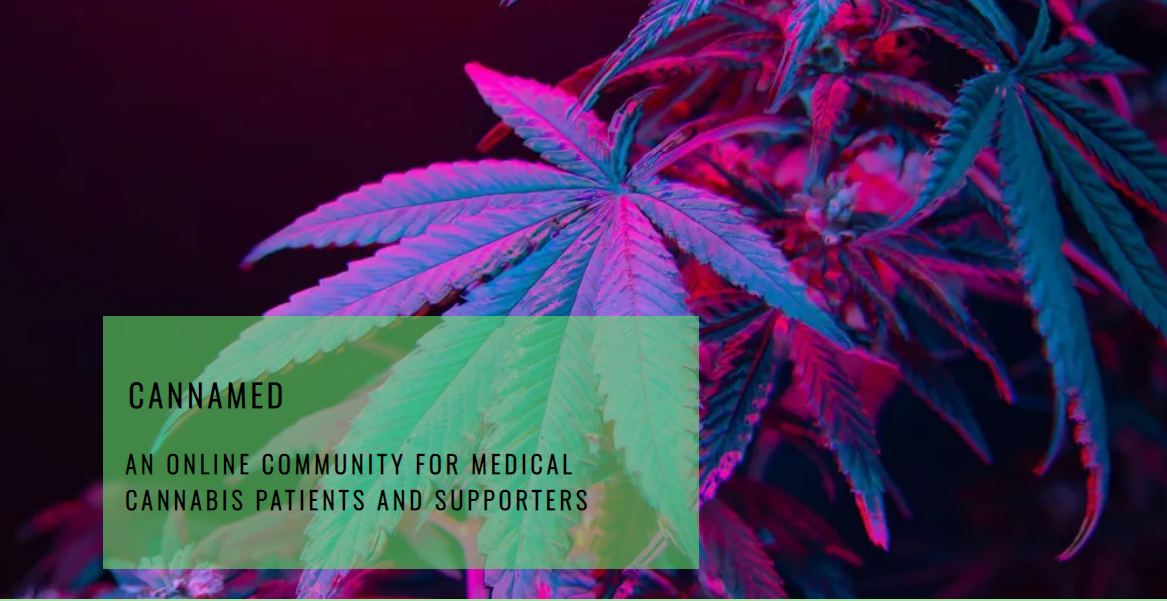
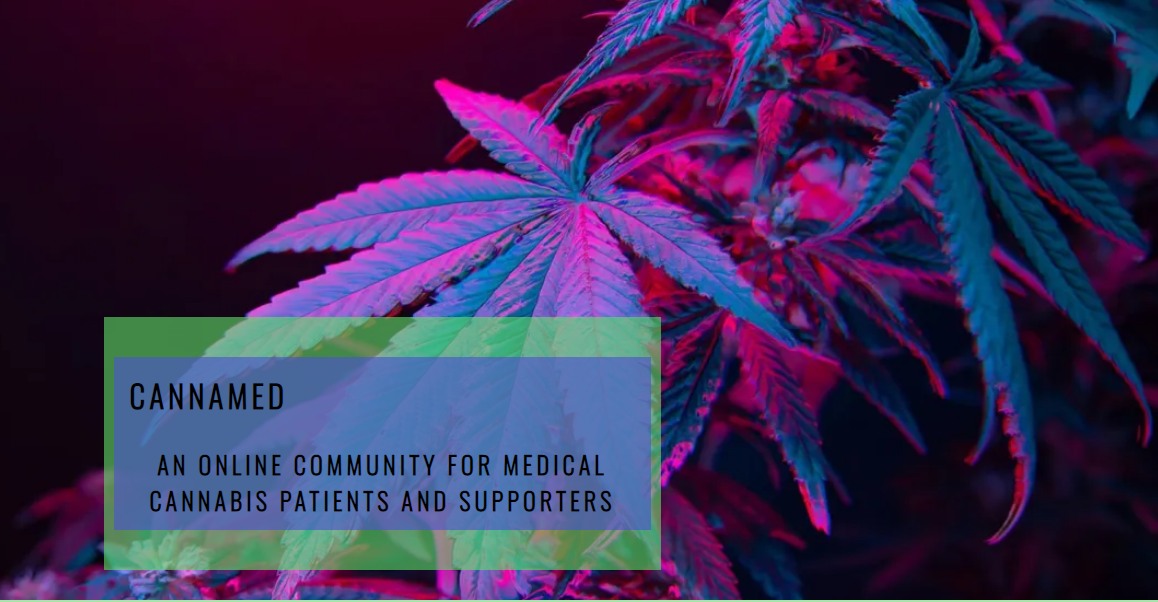
Add more info to read me file and continue testing phase with w3

diff --git a/gallery.html b/gallery.html
@@ -44,6 +44,7 @@
         
     </header>
 
+    <h2>Gallery</h2>
     <section id="photos">
         <img src="assets/images/cannabisbud.jpg" alt="Cannabis bud">
         <img src="assets/images/cannaoil.jpg" alt="Bottle of cannabis oil with dropper">
@@ -54,7 +55,6 @@
         <img src="assets/images/feminized-cannabis-seeds.jpg" alt="Feminized cannabis seeds">
         <img src="assets/images/growing-cannabis.jpg" alt="Cannabis plant growing under full spectrum lights">
         <img src="assets/images/harvest.webp" alt="Flowering stage of cannabis">
-
         <img src="assets/images/medcann12.jpeg" alt="Medical cannabis packaging in the UK">
         <img src="assets/images/promo.jpg" alt="Cannabis plant with chemical composition of THC imbedded">
         <img src="assets/images/purple.jpg" alt="Purple and green cannabis plant">

diff --git a/assets/css/style.css b/assets/css/style.css
@@ -47,7 +47,7 @@ header {
     color: #000000;
 }
 
-#logo a:active,
+/* #logo a:active, */
 #logo a:visited,
 #logo a:focus {
     color: #000000;
@@ -143,7 +143,7 @@ footer i {
 #hero-cover h2 {
     color: #000000;
     border: none;
-    background-color: #4c54cca1;
+    background-color: #4c55cc99;
 }
 
 #hero-outer {

diff --git a/README.md b/README.md
@@ -8,8 +8,8 @@ CannaMed will be useful for anyone who wants to look at Cannabis as an alternati
 You can view the deployed site here:
 (https://dmp-86.github.io/CannaMed/)
 
+![Mock-up of responsive design](documentation/air2.png)
 ![Mock-up of responsive design](documentation/air1.png)
-
 
 ## UX
 
@@ -21,11 +21,12 @@ You can view the deployed site here:
 - `#a7e4a7` used for background of main information sections. 
 - `#b1fdb1` used for highlighting list items in conditions section. 
 - `#b1fdb1` used for background of main areas. 
+- `#4c55cc99` used to highlight some text areas. 
 
 
-I used [coolors.co](https://coolors.co/a7e4a7-b1fdb1-63e069-008000-114611-a8a7e6-4a4a4f-3a3a3a) to generate my colour palette.
+I used [coolors.co](https://coolors.co/a7e4a7-b1fdb1-63e069-008000-114611-4c55cc-a8a7e6-4a4a4f-3a3a3a) to generate my colour palette.
 
-![screenshot](documentation/palette.png)
+![screenshot](documentation/palette%20update.png)
 
 
 ### Typography
@@ -44,8 +45,8 @@ I used [coolors.co](https://coolors.co/a7e4a7-b1fdb1-63e069-008000-114611-a8a7e6
 
 - **Navigation Bar**
 
-- Featured on all pages, the full responsive navigation bar includes links to the Logo, Home page, Gallery and Contact page and is identical on each page to allow for easy navigation and consistentency in design aesthetics.
-This section will enable the user to easily navigate from page to page across all devices without having to revert back to the previous page via the ‘back’ button.
+- Featured on all pages, the fully responsive navigation bar includes links to the Logo, Home page, Gallery and Contact page. It is identical on each page to allow for easy navigation and consistentency in design aesthetics.
+This section will enable the user to easily navigate from page to page across all devices without having to revert back to the previous page via the browser ‘back’ button.
 The navigation bar converts to a hamburger icon with a dropdown menu on screen-sizes of 750px and below. The menu is accessed by pressing the hamburger icon. This allows the content to fit in a structured manner on smaller devices. 
 
 ![screenshot](documentation/nav-main.png)
@@ -55,7 +56,7 @@ The navigation bar converts to a hamburger icon with a dropdown menu on screen-s
 - **The Hero Image & Hero Cover**
 
 - The hero section includes an image to display the main site content and some cover text to briefly describe the subject matter found on the site. The main hero image uses a high resolution image of a cannabis plant under full spectrum light. The colors of the image serve as a break to the standard green palette used across the site. This is intended to capture attention and provide visual indication of the subject matter. 
-The section uses a zoom feature to highlight the image for users. Included on top of the image, is a cover box with the name of the site and a brief description of the intended audience. 
+The section uses an animation zoom feature to highlight the image for users. Included on top of the image, is a cover box with the name of the site and a brief description of the intended audience. 
 
 ![screenshot](documentation/hero-img-cover.png)
 
@@ -94,7 +95,7 @@ This provides users with a quick reference guide to conditions that are eligible
 - **Testimonials section**
 
     - This section is broken into 4 quotes. The intention is to provide the user with real-life patient reviews for a range of different conditions and symptoms.
-    the section is responsive and the structure of the quotes will change based on the users screen-size. 
+    The section is responsive and the structure of the quotes will change based on the users screen-size. 
 
 ![screenshot](documentation/testimonials-fs.png)
 ![screenshot](documentation/testimonials-bl.png)
@@ -102,7 +103,7 @@ This provides users with a quick reference guide to conditions that are eligible
 - **Footer**
 
     - The footer section includes links to the relevant social media sites for CannaMed. The links will open to a new tab to allow easy navigation for the user. This negates the use of the 'back' button in the browser to allow for a more seamless user experience. 
-The footer is valuable to the user as it encourages them to keep connected via social media. It also encourages the user to becoe part of the social media communities. Included on the footer is the name of the site, a brief description of the purpose of the site and the developer information. 
+The footer is valuable to the user as it encourages them to keep connected via social media. It also encourages the user to become part of the social media communities. Included on the footer is the name of the site, a brief description of the purpose of the site and the developer information. 
 
 ![screenshot](documentation/footer.png)
 
@@ -139,8 +140,6 @@ With additional time to spend on this project, I believe the below features woul
     - Introduce a calculator into the site where users can simulate how much a monthly prescription will cost them, based on their individual needs. 
 
 ## Tools & Technologies Used
-
-Make sure to put a link (where applicable) to the source, and explain what each was used for.
 
 - [HTML](https://en.wikipedia.org/wiki/HTML) used for the main site content.
 - [CSS](https://en.wikipedia.org/wiki/CSS) used for the main site design and layout.
@@ -209,6 +208,8 @@ You can fork this repository by using the following steps:
 | [Chris Beams](https://chris.beams.io/posts/git-commit) | version control | "How to Write a Git Commit Message" |
 | [W3Schools](https://www.w3schools.com/howto/howto_js_topnav_responsive.asp) | entire site | responsive HTML/CSS/JS navbar |
 | ['Required' radio buttons](https://www.w3docs.com/snippets/html.html) | How-to guide | Make a radio button selection required |
+| [Wikipedia](https://en.wikipedia.org/wiki/Cannabis_in_the_United_Kingdom) | Main info | Cannabis History in the UK |
+| [Lyphe Group](https://lyphe.com/) | Patient Journey/Treatable Conditions/FAQs | Info used on main page |
 
 
 ### Media
